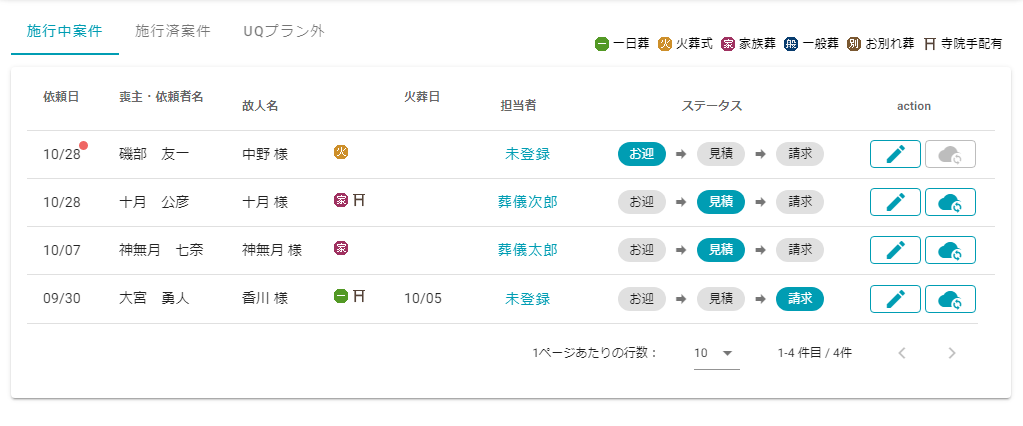
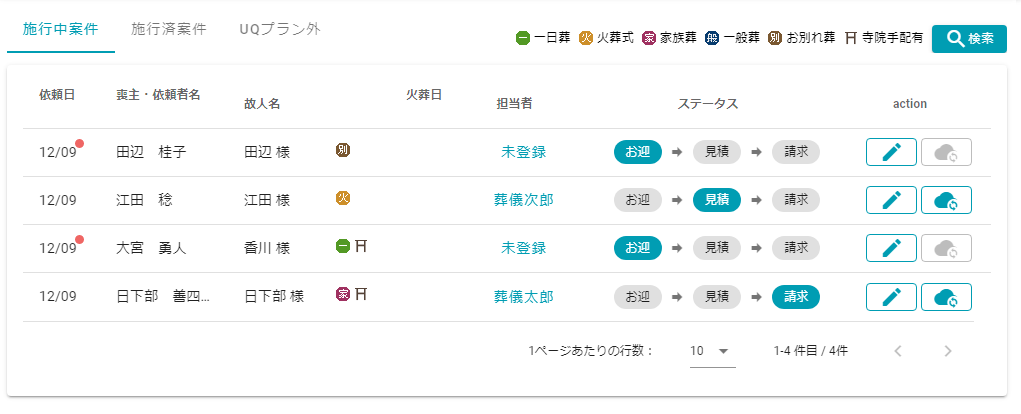
施行中案件一覧画面に絞り込み機能についての記述を追加

diff --git a/docs/funeral_list/yet.md b/docs/funeral_list/yet.md
@@ -32,3 +32,11 @@
 |ステータス|葬儀の進捗状況です.<br>「お迎」をクリックすると設定したお迎え時間が表示されます.|
 |<img src="../../asset/image/funeral_list/icon_edit.png">|ステータスを進めるために葬儀データの確認・編集を行います.|
 |<img src="../../asset/image/funeral_list/icon_refresh.png">|小さなお葬式本部で保持されている葬儀データの最新情報を取得します.|
+
+
+
+## 3. 絞り込み機能
+右上にある<img class="img_inline" src="../../asset/image/funeral_list/search_button.png">より一覧葬儀データの絞り込み条件を設定できます.  
+※絞り込みできるのは施行中案件の画面のみです. 施行完了案件、UQプラン外の画面は対象外です.
+<br />
+<img src="../../asset/image/funeral_list/search_list.png">

diff --git a/docs/revision_history.md b/docs/revision_history.md
@@ -2,7 +2,7 @@
 
 |日付|内容|
 |:---------|------------------:|
-|2020/12/10|お問い合わせページの問い合わせ先情報を更新<br/>葬儀データのエクスポート画面についてのマニュアルを追加<br/>各ページの画像を最新化|
+|2020/12/10|お問い合わせページの問い合わせ先情報を更新<br/>葬儀データのエクスポート画面についてのマニュアルを追加<br/>各ページの画像を最新化<br/>施行中案件一覧画面に絞り込み機能についての記述を追加|
 |2020/11/26|システム更新情報ページにv1.10.0の更新内容を追加<br/>|
 |2020/11/16|システム更新情報ページにv1.9.1の更新内容を追加<br/>|
 |2020/11/12|システム更新情報ページにv1.9.0の更新内容を追加<br/>|
